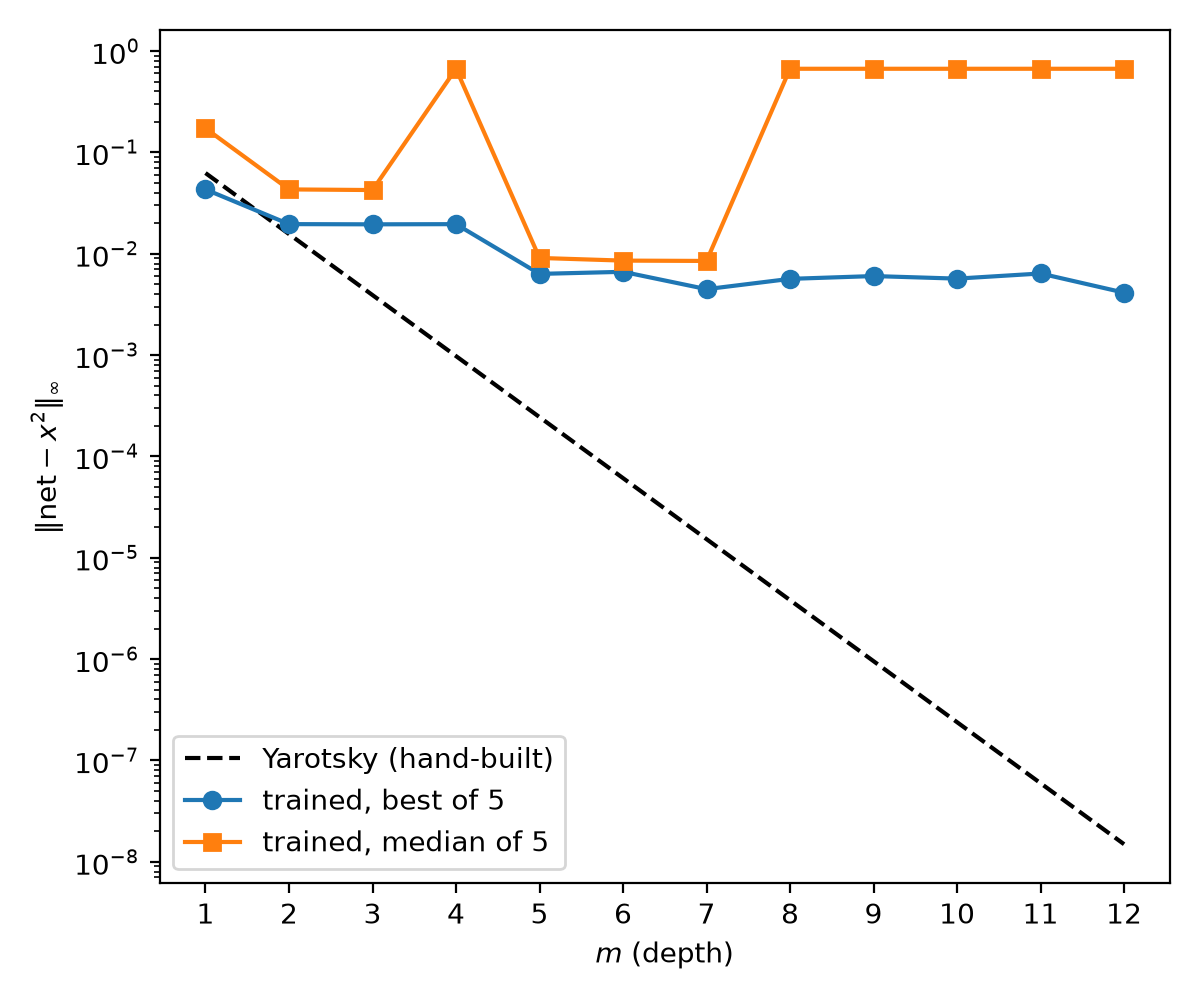
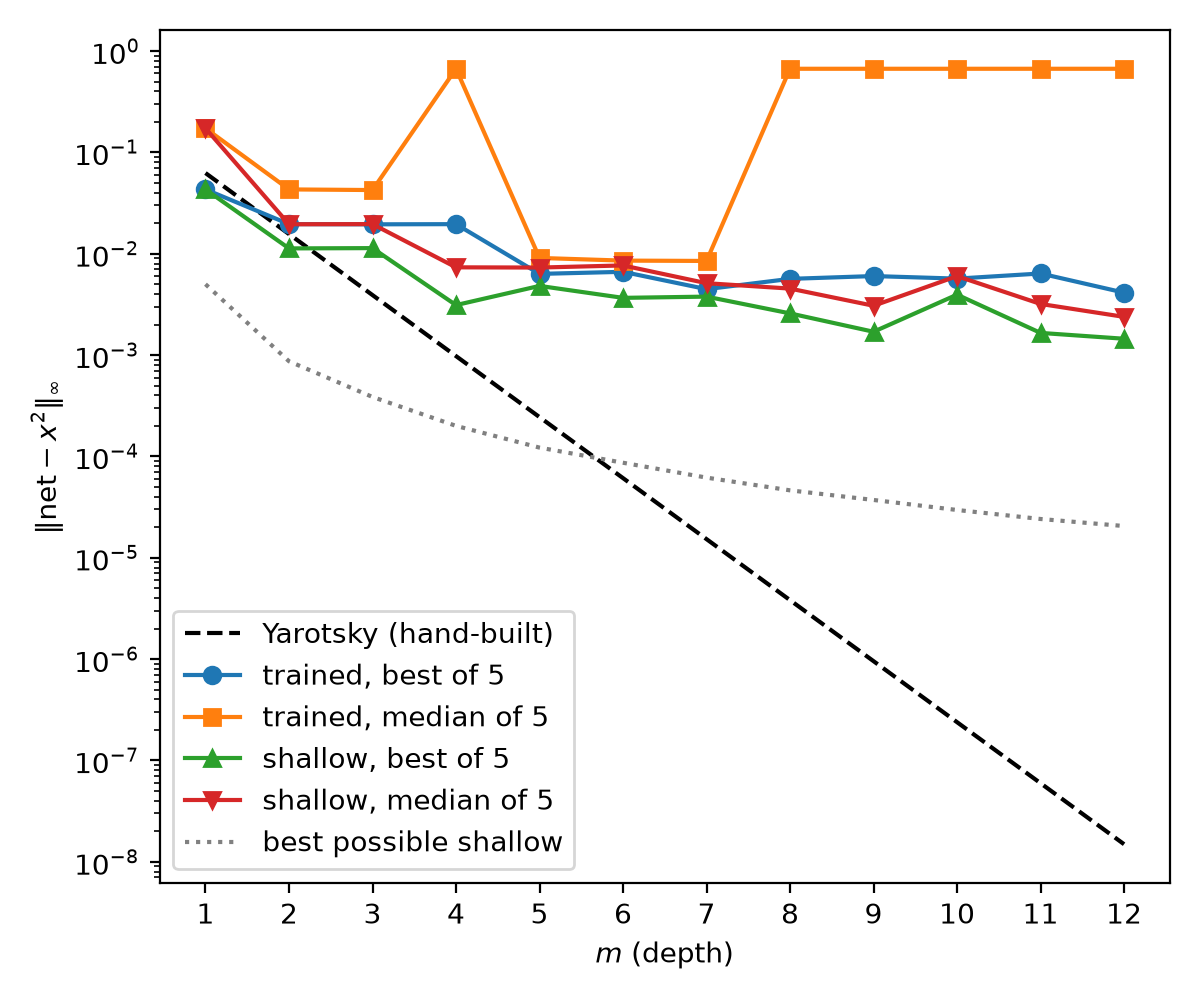
Added a Shallow network an plotted it

Changed region(s): [[0.1542, 0.62, 0.4933, 0.868], [0.1542, 0.155, 0.9558, 0.372], [0.1542, 0.124, 0.185, 0.155]]

diff --git a/results/plot.py b/results/plot.py
@@ -12,11 +12,22 @@ best = [float(row["best"]) for row in rows]
 med = [float(row["median"]) for row in rows]
 yarotsky = [2.0**(-2*m - 2) for m in ms]
 
+with open("results/shallow.csv") as file:
+    shallow_rows = list(csv.DictReader(file))
+
+N = [int(row["N"]) for row in shallow_rows]
+shallow_best = [float(row["best"]) for row in shallow_rows]
+shallow_med = [float(row["median"]) for row in shallow_rows]
+
 # Theory against practice, log scale
 fig, ax = plt.subplots(figsize=(6, 5))
 ax.semilogy(ms, yarotsky, "k--", label="Yarotsky (hand-built)")
 ax.semilogy(ms, best, "o-", label="trained, best of 5")
 ax.semilogy(ms, med, "s-", label="trained, median of 5")
+ax.semilogy(ms, shallow_best, "^-", label="shallow, best of 5")
+ax.semilogy(ms, shallow_med, "v-", label="shallow, median of 5")
+shallow_theory = [1 / (8 * (n + 1)**2) for n in N]
+ax.semilogy(ms, shallow_theory, ":", color="gray", label="best possible shallow")
 ax.set_xticks(ms)
 ax.set_xlabel("$m$ (depth)")
 ax.set_ylabel(r"$\|\mathrm{net} - x^2\|_\infty$")

diff --git a/shallow.py b/shallow.py
@@ -1,0 +1,33 @@
+import torch
+from torch import nn
+from statistics import median
+from train import train
+import csv
+from pathlib import Path
+
+torch.set_default_dtype(torch.float64)
+
+
+# One hidden layer of N neurons
+def make_shallow(N: int) -> nn.Sequential:
+    return nn.Sequential(nn.Linear(1, N), nn.ReLU(), nn.Linear(N, 1))
+
+
+# Train shallow networks with the same weight count as depth m
+if __name__ == "__main__":
+    results = []
+    for m in range(1, 13):
+        N = round((20*m - 8) / 3)
+        errs = []
+        for seed in range(5):
+            torch.manual_seed(seed)
+            net = make_shallow(N)
+            errs.append(train(net))
+        best, med = min(errs), median(errs)
+        results.append((m, N, best, med))
+        print(m, N, best, med)
+    Path("results").mkdir(exist_ok=True)
+    with open("results/shallow.csv", "w", newline="") as file:
+        writer = csv.writer(file)
+        writer.writerow(["m", "N", "best", "median"])
+        writer.writerows(results)
